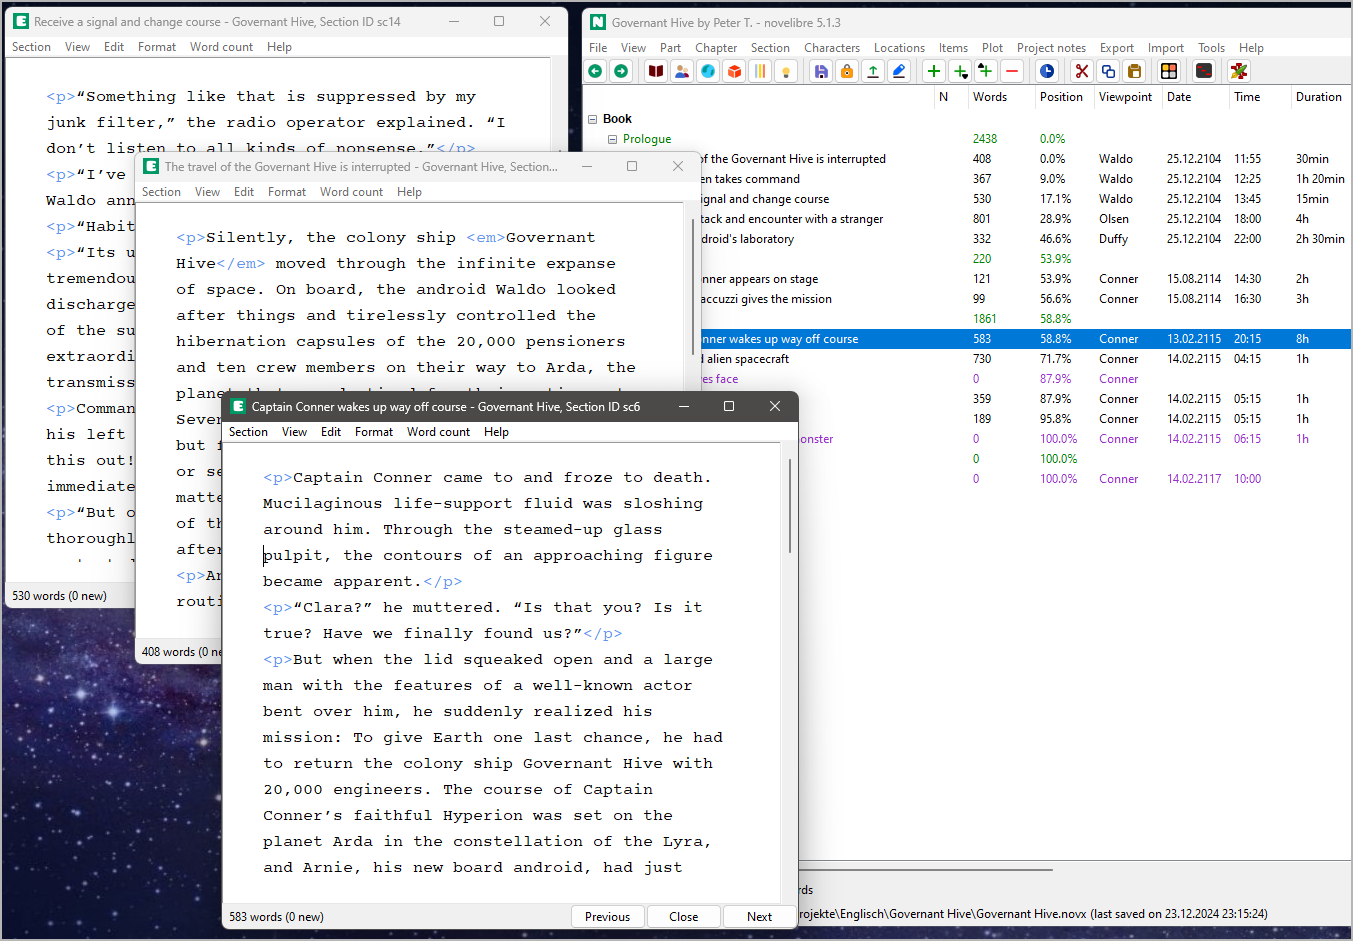
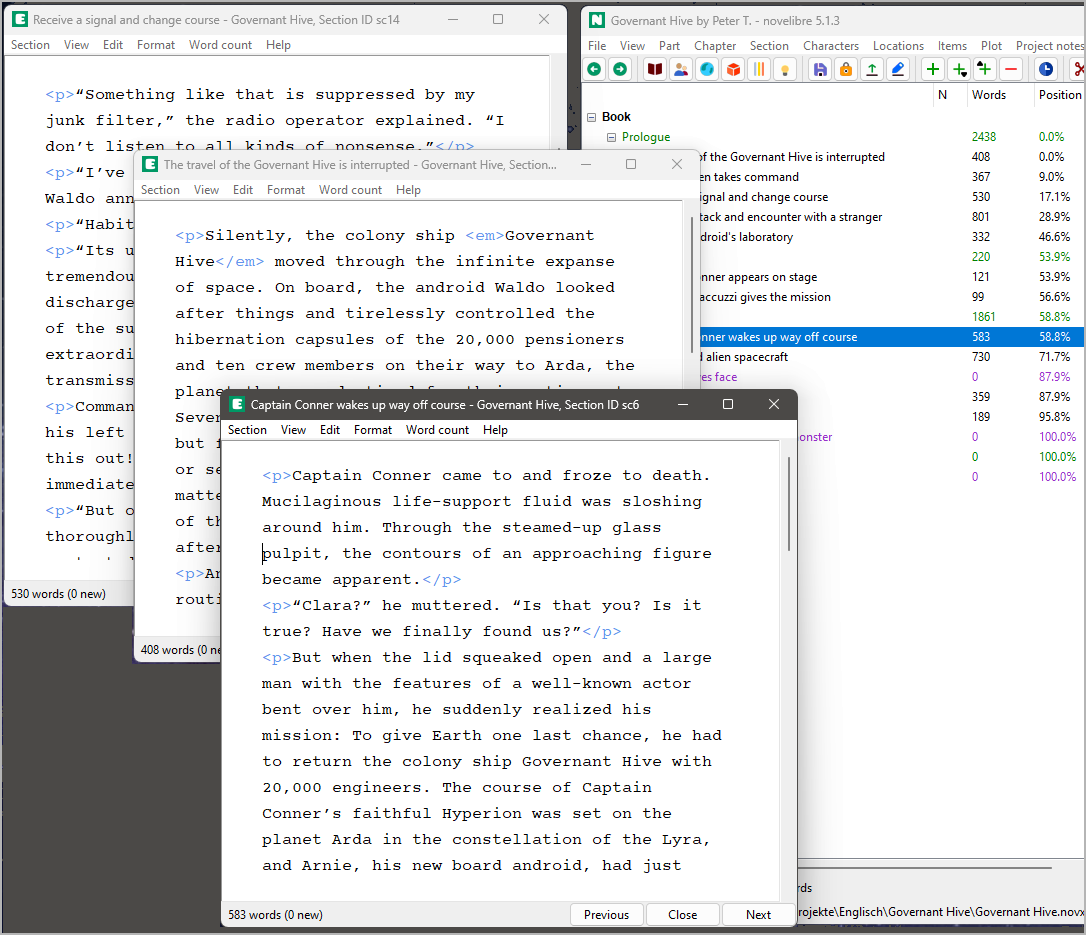
Update screenshot

Changed region(s): [[0.0, 0.0, 1.0, 1.0]]

diff --git a/README.md b/README.md
@@ -10,7 +10,7 @@ The [novelibre](https://github.com/peter88213/novelibre/) Python program helps a
 
 *nv_editor* is a plugin providing a "plain text" section editor. 
 
-![Screenshot](docs/Screenshots/screen01.png)
+![Screenshot](docs/Screenshots/screen02.png)
 
 ## Features
 

diff --git a/docs/template/README.md b/docs/template/README.md
@@ -10,7 +10,7 @@ The [novelibre](https://github.com/peter88213/novelibre/) Python program helps a
 
 *nv_editor* is a plugin providing a "plain text" section editor. 
 
-![Screenshot](docs/Screenshots/screen01.png)
+![Screenshot](docs/Screenshots/screen02.png)
 
 ## Features
 
